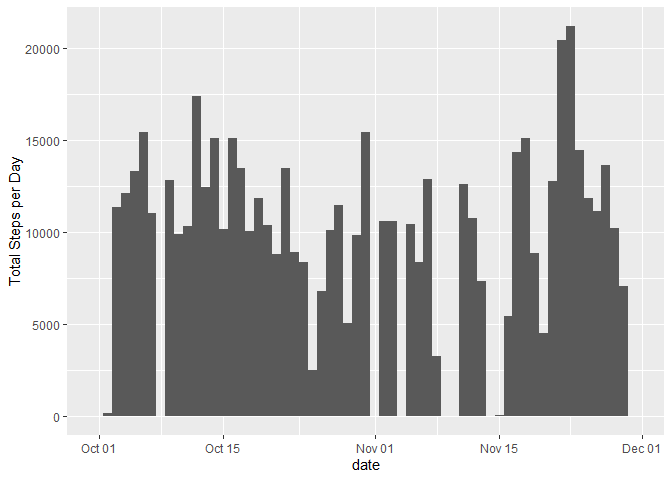
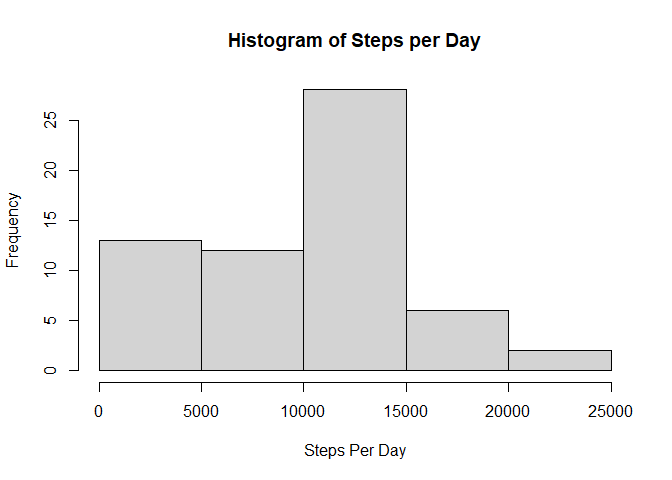
updated histogram

diff --git a/PA1_template.html b/PA1_template.html
@@ -359,7 +359,8 @@ display: none;
 <p>Raw data can be found at <a href="https://d396qusza40orc.cloudfront.net/repdata%2Fdata%2Factivity.zip" class="uri">https://d396qusza40orc.cloudfront.net/repdata%2Fdata%2Factivity.zip</a><br />
 Note that defaults of read.csv could be used because NA defines missing
 values and dates are in format “YYYY-MM-DD”.</p>
-<p><strong>rawActivity</strong> is the name of the raw data frame.</p>
+<p><strong>rawActivity</strong> is the name of the raw data frame.
+<strong>byDay</strong> is the dataframe with total number of steps</p>
 <pre class="r"><code>##url &lt;- &quot;https://d396qusza40orc.cloudfront.net/repdata%2Fdata%2Factivity.zip&quot;
 ##download.file(url, &quot;Factivity.zip&quot;, mode = &quot;wb&quot;)
 ##unzip(&quot;Factivity.zip&quot;)
@@ -376,16 +377,6 @@ dim(rawActivity)</code></pre>
  3rd Qu.: 12.00   3rd Qu.:2012-11-15   3rd Qu.:1766.2  
  Max.   :806.00   Max.   :2012-11-30   Max.   :2355.0  
  NA&#39;s   :2304                                          </code></pre>
-</div>
-<div id="what-is-mean-total-number-of-steps-taken-per-day" class="section level2">
-<h2>What is mean total number of steps taken per day?</h2>
-<p>Use ggplot to create histogram of total number of steps taken per
-day.<br />
-(Note: filename for plot is <em>1-hist1</em> )</p>
-<pre class="r"><code>library(ggplot2)
-g &lt;- ggplot(rawActivity, aes(x=date, weight = steps))
-g + geom_histogram(bins = 61) + labs(y = &quot;Total Steps per Day&quot;)</code></pre>
[1 lines of base64/hex data omitted]
 <pre class="r"><code>library(dplyr)</code></pre>
 <pre><code>
 Attaching package: &#39;dplyr&#39;</code></pre>
@@ -395,18 +386,27 @@ Attaching package: &#39;dplyr&#39;</code></pre>
 <pre><code>The following objects are masked from &#39;package:base&#39;:
 
     intersect, setdiff, setequal, union</code></pre>
-<pre class="r"><code>summary &lt;- rawActivity  %&gt;% 
-     summarize(mean =  mean(steps, na.rm = TRUE), median = median(steps, na.rm = TRUE))</code></pre>
-<p>Mean steps per day is <strong>37.3825996</strong> and median steps
-per day is <strong>0</strong>.</p>
+<pre class="r"><code>byDay &lt;- rawActivity %&gt;% group_by(date) %&gt;%
+     summarize(total = sum(steps, na.rm = TRUE))</code></pre>
+</div>
+<div id="what-is-mean-total-number-of-steps-taken-per-day" class="section level2">
+<h2>What is mean total number of steps taken per day?</h2>
+<p>Create summary data frame by date and create histogram of all “steps
+per day” values.<br />
+(Note: filename for plot is <em>1-hist1</em> )</p>
+<pre class="r"><code>hist(byDay$total, xlab = &quot;Steps Per Day&quot;, main = &quot;Histogram of Steps per Day&quot;)</code></pre>
[1 lines of base64/hex data omitted]
+<p>Mean steps per day is <strong>9354.2295082</strong> and median steps
+per day is <strong>10395</strong>.</p>
 </div>
 <div id="what-is-the-average-daily-activity-pattern" class="section level2">
 <h2>What is the average daily activity pattern?</h2>
 <p>Time series plot of the average number of steps taken. Create a new
 dataframe with mean, then plot line graph.<br />
 (Note: filename for plot is <em>2-Steps_per_interval</em> )</p>
-<pre class="r"><code> byInterval &lt;- rawActivity %&gt;% group_by(interval) %&gt;%
+<pre class="r"><code>byInterval &lt;- rawActivity %&gt;% group_by(interval) %&gt;%
      summarize(mean = mean(steps, na.rm = TRUE), median = median(steps,na.rm=TRUE) )
+library(ggplot2)
   g &lt;- ggplot(byInterval,  aes(interval,  mean) )
   g + geom_line() + 
        labs(y = &quot;Average # of Steps per Interval&quot; )</code></pre>
@@ -434,11 +434,9 @@ can see that all missing values are in the steps column, and there are
 To review if there are any additional NA values, All NA data were
 plotted and the y-axis limits adjusted to see small numbers. In the
 plots below, one can see that there are exactly 8 days with NA values,
-so there are no dates where there is a mixture of NA and present data.
-Because of this, one can just set the number of steps to
-<strong>0</strong> where values are NA. (Or even just remove those rows
-completely, but that’s not what the instructions request.)<br />
-(Note: filename for plot is <em>3-NA_Review</em> )</p>
+so there are no dates where there is a mixture of NA and present
+data.</p>
+<p>(Note: filename for plot is <em>3-NA_Review</em> )</p>
 <pre class="r"><code>par(mfrow=c(2,1))
 plot(rawActivity$date, rawActivity$interval, type = &quot;n&quot;, ylab = &quot;Full Range&quot;)  
 with(subset(rawActivity, is.na(steps)), 
@@ -449,25 +447,25 @@ plot(rawActivity$date, rawActivity$interval, type = &quot;n&quot;, ylim = c(0,5)
 with(subset(rawActivity, is.na(steps)), 
      points( date, interval, type = &quot;h&quot;,  col = &quot;blue&quot;) )</code></pre>
[1 lines of base64/hex data omitted]
-<p>Impute the NA values to zero, creating a new dataframe named
+<p>Because of this, one can just set the number of steps to
+<strong>0</strong> where values are NA. (Or even just remove those rows
+completely, but that’s not what the instructions request.)<br />
+Impute the NA values to zero, creating a new dataframe named
 <strong>activity</strong>, then re-plot the total number of steps per
-day to compare to the first plot. This does not affect the overall
-histogram, but will affect any average over all the days, reducing all
-values proportionally.<br />
-(Note: filename for plot is <em>4-hist_after_impute</em> )</p>
+day to compare to the first plot. (Note: filename for plot is
+<em>4-hist_after_impute</em> )</p>
 <pre class="r"><code>activity &lt;- rawActivity
 activity$steps[is.na(activity$steps)] &lt;- 0
 par(  mfrow=c(1,1))
-g &lt;- ggplot(activity, aes(x=date, weight = steps))
-g + geom_histogram(bins = 61) + labs(y = &quot;Total Steps per Day&quot;)</code></pre>
[1 lines of base64/hex data omitted]
-<pre class="r"><code>summary2 &lt;- activity  %&gt;% 
-     summarize(mean =  mean(steps, na.rm = TRUE), median = median(steps, na.rm = TRUE))</code></pre>
-<p>After imputation, mean steps per day is <strong>32.4799636</strong>
-and median steps per day is <strong>0</strong>.<br />
+byDay2 &lt;- activity %&gt;% group_by(date) %&gt;%
+     summarize(total = sum(steps))
+hist(byDay2$total, xlab = &quot;Steps Per Day&quot;,  main = &quot;Histogram of Steps per Day&quot;)</code></pre>
[1 lines of base64/hex data omitted]
+<p>After imputation, mean steps per day is <strong>9354.2295082</strong>
+and median steps per day is <strong>1.0395^{4}</strong>.<br />
 As a reminder, from the beginning of the document, before imputation,
-mean steps per day was <strong>37.3825996</strong> and median steps per
-day was <strong>0</strong>.</p>
+mean steps per day was <strong>9354.2295082</strong> and median steps
+per day was <strong>10395</strong>.</p>
 </div>
 <div id="are-there-differences-in-activity-patterns-between-weekdays-and-weekends" class="section level2">
 <h2>Are there differences in activity patterns between weekdays and

diff --git a/PA1_template.md b/PA1_template.md
@@ -12,6 +12,7 @@ Raw data can be found at  https://d396qusza40orc.cloudfront.net/repdata%2Fdata%2
 Note that defaults of read.csv could be used because NA defines missing values and dates are in format "YYYY-MM-DD".  
 
 **rawActivity** is the name of the raw data frame. 
+**byDay** is the dataframe with total number of steps
 
 
 
@@ -44,22 +45,6 @@ summary(rawActivity)
  NA's   :2304                                          
 ```
 
-
-
-## What is mean total number of steps taken per day?
-Use ggplot to create histogram of total number of steps taken per day.  
-(Note: filename for plot is *1-hist1* ) 
-
-
-
-```r
-library(ggplot2)
-g <- ggplot(rawActivity, aes(x=date, weight = steps))
-g + geom_histogram(bins = 61) + labs(y = "Total Steps per Day")
-```
-
-![](PA1_template_files/figure-html/1-hist1-1.png)<!-- -->
-
 ```r
 library(dplyr)
 ```
@@ -82,12 +67,26 @@ The following objects are masked from 'package:base':
 ```
 
 ```r
-summary <- rawActivity  %>% 
-     summarize(mean =  mean(steps, na.rm = TRUE), median = median(steps, na.rm = TRUE))
+byDay <- rawActivity %>% group_by(date) %>%
+     summarize(total = sum(steps, na.rm = TRUE))
 ```
+
+
+
+## What is mean total number of steps taken per day?
+Create summary data frame by date and create histogram of all "steps per day" values.  
+(Note: filename for plot is *1-hist1* ) 
+
+
+
+```r
+hist(byDay$total, xlab = "Steps Per Day", main = "Histogram of Steps per Day")
+```
+
+![](PA1_template_files/figure-html/1-hist1-1.png)<!-- -->
    
 
-Mean steps per day is **37.3825996** and median steps per day is **0**. 
+Mean steps per day is **9354.2295082** and median steps per day is **10395**. 
 
 
 
@@ -98,8 +97,9 @@ Time series plot of the average number of steps taken. Create a new dataframe wi
 
 
 ```r
- byInterval <- rawActivity %>% group_by(interval) %>%
+byInterval <- rawActivity %>% group_by(interval) %>%
      summarize(mean = mean(steps, na.rm = TRUE), median = median(steps,na.rm=TRUE) )
+library(ggplot2)
   g <- ggplot(byInterval,  aes(interval,  mean) )
   g + geom_line() + 
        labs(y = "Average # of Steps per Interval" )
@@ -136,7 +136,7 @@ summary(rawActivity)
 ```
 It is notable that there are 8 days for which all data are NA (indicated by NaN for the mean daily number of steps above).  
 To review if there are any additional NA values, All NA data were plotted and the y-axis limits adjusted to see small numbers. In the plots below, one can see that there are exactly 8 days with NA values, so there are no dates where there is a mixture of NA and present data.
-Because of this, one can just set the number of steps to **0** where values are NA. (Or even just remove those rows completely, but that's not what the instructions request.)  
+
 (Note: filename for plot is *3-NA_Review* )
 
 
@@ -154,7 +154,8 @@ with(subset(rawActivity, is.na(steps)),
 
 ![](PA1_template_files/figure-html/3-NA_Review-1.png)<!-- -->
 
-Impute the NA values to zero, creating a new dataframe named **activity**, then re-plot the total number of steps per day to compare to the first plot. This does not affect the overall histogram, but will affect any average over all the days, reducing all values proportionally.  
+Because of this, one can just set the number of steps to **0** where values are NA. (Or even just remove those rows completely, but that's not what the instructions request.)  
+Impute the NA values to zero, creating a new dataframe named **activity**, then re-plot the total number of steps per day to compare to the first plot. 
 (Note: filename for plot is *4-hist_after_impute* )
 
 
@@ -162,19 +163,15 @@ Impute the NA values to zero, creating a new dataframe named **activity**, then 
 activity <- rawActivity
 activity$steps[is.na(activity$steps)] <- 0
 par(  mfrow=c(1,1))
-g <- ggplot(activity, aes(x=date, weight = steps))
-g + geom_histogram(bins = 61) + labs(y = "Total Steps per Day")
+byDay2 <- activity %>% group_by(date) %>%
+     summarize(total = sum(steps))
+hist(byDay2$total, xlab = "Steps Per Day",  main = "Histogram of Steps per Day")
 ```
 
 ![](PA1_template_files/figure-html/4-hist_after_impute-1.png)<!-- -->
 
-```r
-summary2 <- activity  %>% 
-     summarize(mean =  mean(steps, na.rm = TRUE), median = median(steps, na.rm = TRUE))
-```
-
-After imputation, mean steps per day is **32.4799636** and median steps per day is **0**.  
-As a reminder, from the beginning of the document, before imputation, mean steps per day was **37.3825996** and median steps per day was **0**. 
+After imputation, mean steps per day is **9354.2295082** and median steps per day is **1.0395\times 10^{4}**.  
+As a reminder, from the beginning of the document, before imputation, mean steps per day was **9354.2295082** and median steps per day was **10395**. 
 
 
 
